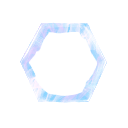
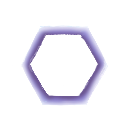
New energy panel look

Changed region(s): [[0.1562, 0.1562, 0.8438, 0.8438]]

diff --git a/src/main/java/theRetrospect/characters/TheRetrospect.java b/src/main/java/theRetrospect/characters/TheRetrospect.java
@@ -1,5 +1,6 @@
 package theRetrospect.characters;
 
+import basemod.abstracts.CustomEnergyOrb;
 import basemod.animations.SpriterAnimation;
 import com.badlogic.gdx.graphics.Color;
 import com.badlogic.gdx.graphics.g2d.BitmapFont;
@@ -106,7 +107,10 @@ public class TheRetrospect extends AbstractPlayerWithMinions {
 
     public TheRetrospect(String name, PlayerClass setClass) {
         super(name, setClass, orbTextures,
-                "theRetrospectResources/images/char/retrospectCharacter/energyOrb/vfx.png", null,
+                "theRetrospectResources/images/char/retrospectCharacter/energyOrb/vfx.png",
+                new float[]{
+                        -20.0F, 20.0F, -40.0F, 40.0F, 0
+                },
                 new SpriterAnimation(
                         "theRetrospectResources/images/char/retrospectCharacter/Spriter/theRetrospectAnimation.scml"));
 
